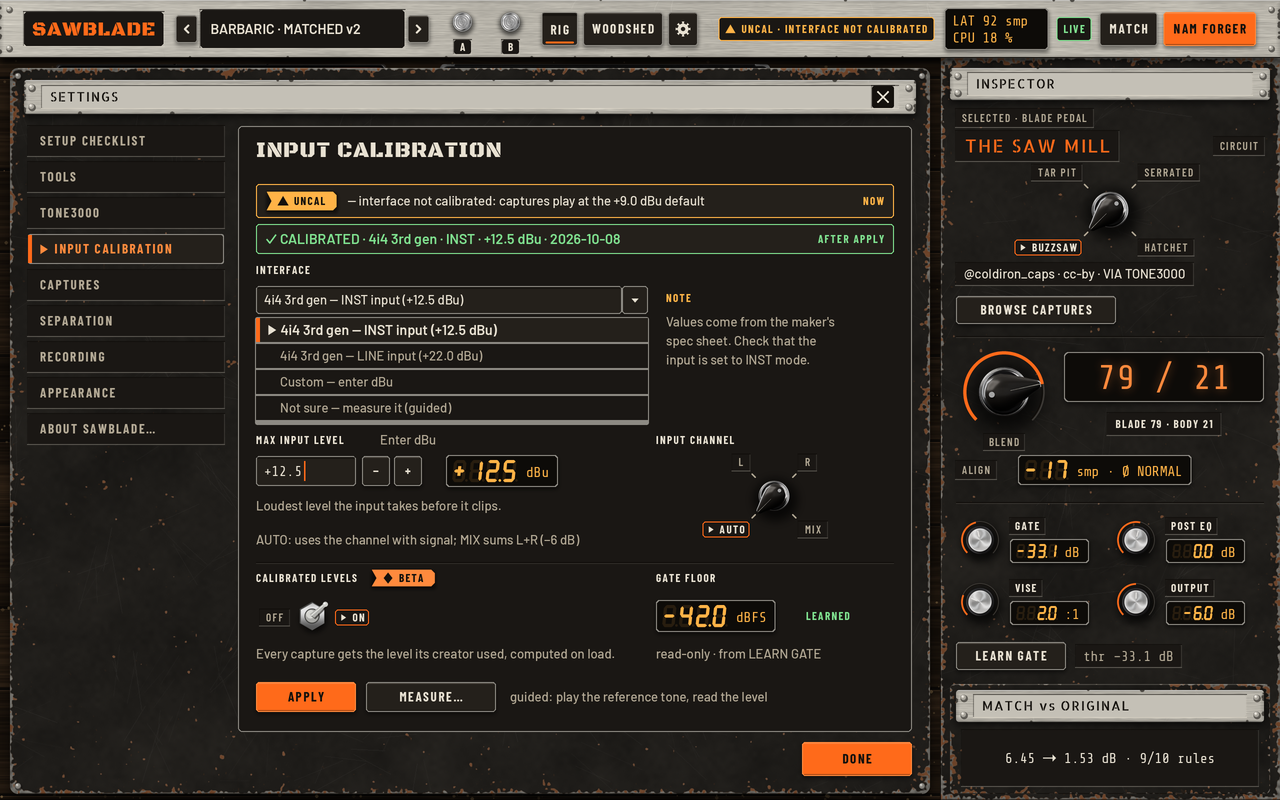
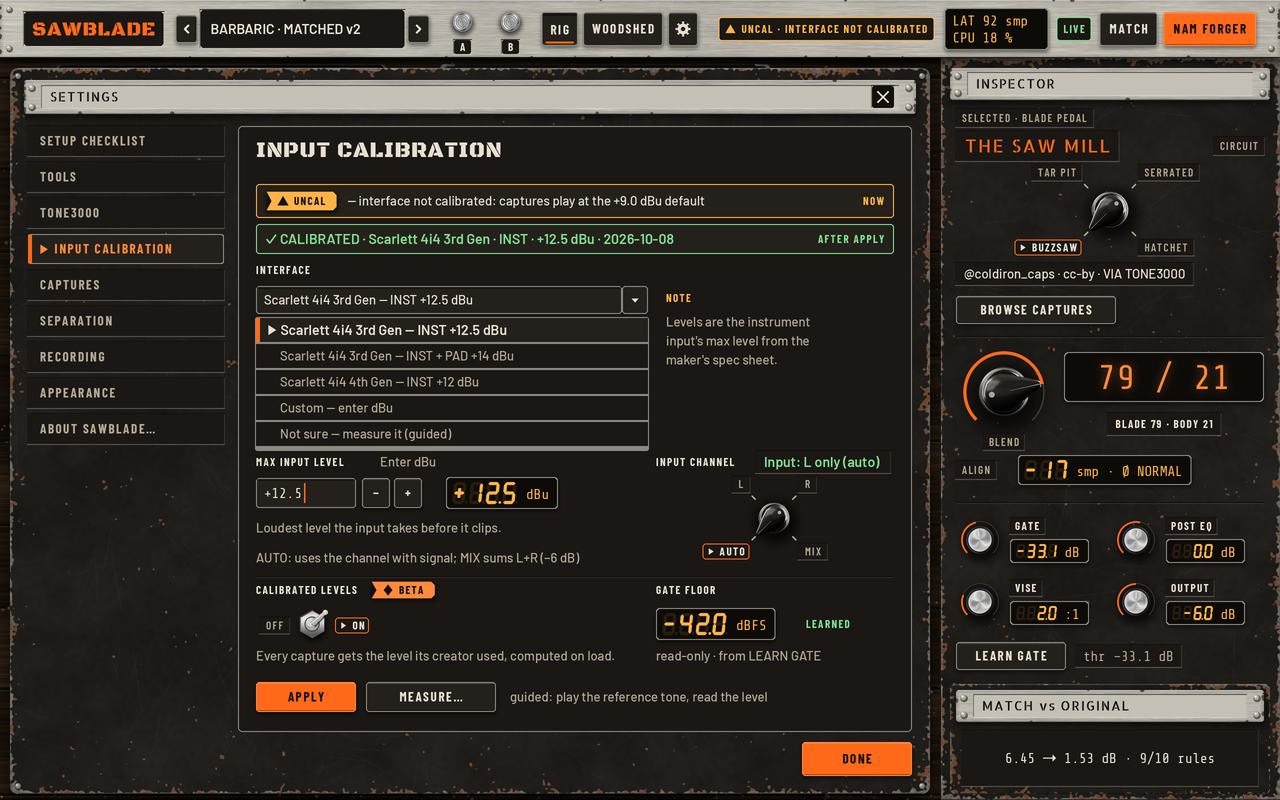
mockups: v0.8 decisions (OUT OF TRUE wording, Scarlett INST presets, input-channel caption)
- OUT OF TRUE banner uses the exact v0.8 sentence (hotter case, ~4.5 dB)
- device presets: Scarlett 4i4 3rd Gen INST / INST + PAD, 4th Gen INST, Custom, guided; no LINE or +22 dBu anywhere
- CALIBRATED strip names the Scarlett 4i4 3rd Gen; NOTE text says instrument-input max level
- INPUT CHANNEL shows the 'Input: L only (auto)' caption
- README rows, open design choices and contrast table updated

Claude-Session: https://claude.ai/code/session_01Xtcva4Boag1J55QcGzGRmV

diff --git a/design/mockups/workshop/screens_panels.py b/design/mockups/workshop/screens_panels.py
@@ -156,20 +156,20 @@ def screen_03_settings_calibration():
     y += 40
     s2 = (bx0, y, bx1, y + 30)
     flat_box(cv, s2, 'well_raised', 'ok', 3)
-    ws.text(cv, (s2[0] + 10, y + 15), '✓ CALIBRATED · 4i4 3rd gen · INST · +12.5 dBu · 2026-10-08', 'body_strong',
+    ws.text(cv, (s2[0] + 10, y + 15), '✓ CALIBRATED · Scarlett 4i4 3rd Gen · INST · +12.5 dBu · 2026-10-08', 'body_strong',
             bg=ws.inset(s2, 3), fg='ok')
     ws.text(cv, (s2[2] - 10, y + 15), 'AFTER APPLY', 'label_b', bg=ws.inset(s2, 3), align='r', fg='ok')
     y += 46
     # INTERFACE dropdown, shown open
     ws.text(cv, (bx0, y), 'INTERFACE', 'label_b', bg=body)
     y += 16
-    ws.dropdown(cv, (bx0, y, bx0 + 392, y + 28), '4i4 3rd gen — INST input (+12.5 dBu)')
+    ws.dropdown(cv, (bx0, y, bx0 + 392, y + 28), 'Scarlett 4i4 3rd Gen — INST +12.5 dBu')
     y += 32
-    opts = ['4i4 3rd gen — INST input (+12.5 dBu)', '4i4 3rd gen — LINE input (+22.0 dBu)', 'Custom — enter dBu',
-            'Not sure — measure it (guided)']
+    opts = ['Scarlett 4i4 3rd Gen — INST +12.5 dBu', 'Scarlett 4i4 3rd Gen — INST + PAD +14 dBu',
+            'Scarlett 4i4 4th Gen — INST +12 dBu', 'Custom — enter dBu', 'Not sure — measure it (guided)']
     list_x1 = bx0 + 392
     top_list = y
-    cv.fill((bx0 - 1, top_list - 1, list_x1 + 1, top_list + 4 * 26 + 3), 'steel_bare', 2)
+    cv.fill((bx0 - 1, top_list - 1, list_x1 + 1, top_list + len(opts) * 26 + 3), 'steel_bare', 2)
     for i, o in enumerate(opts):
         r = (bx0, top_list + i * 26, list_x1, top_list + i * 26 + 24)
         sel = i == 0
@@ -179,16 +179,19 @@ def screen_03_settings_calibration():
             ws.text(cv, (r[0] + 12, (r[1] + r[3]) / 2.0), '▶ ' + o, 'body_strong', bg=ws.inset(r, 3))
         else:
             ws.text(cv, (r[0] + 24, (r[1] + r[3]) / 2.0), o, 'body_dim', bg=ws.inset(r, 3))
-    note = (list_x1 + 18, top_list - 32, bx1, top_list + 4 * 26 + 2)
+    note = (list_x1 + 18, top_list - 32, bx1, top_list + len(opts) * 26 + 2)
     ws.text(cv, (note[0], note[1] + 12), 'NOTE', 'label_b', bg=body, fg='warn')
-    lines(cv, note[0], note[1] + 36, ['Values come from the maker\'s', 'spec sheet. Check that the', 'input is set to INST mode.'],
+    lines(cv, note[0], note[1] + 36, ['Levels are the instrument', 'input\'s max level from the', 'maker\'s spec sheet.'],
           body, 'body_dim', 19)
-    y = top_list + 4 * 26 + 18
+    y = top_list + len(opts) * 26 + 14
     # MAX INPUT LEVEL (left) and INPUT CHANNEL (right)
     colr = bx0 + 400
     ws.text(cv, (bx0, y), 'MAX INPUT LEVEL', 'label_b', bg=body)
     ws.text(cv, (bx0 + 124, y), 'Enter dBu', 'body_dim', bg=body)
     ws.text(cv, (colr, y), 'INPUT CHANNEL', 'label_b', bg=body)
+    cs = (colr + 100, y - 11, bx1 - 4, y + 11)
+    ws.well(cv, cs, 'well', 2)
+    ws.text(cv, (cs[0] + 8, y), 'Input: L only (auto)', 'body_strong', bg=cs, fg='ok')
     y += 16
     ws.text_field(cv, (bx0, y, bx0 + 100, y + 30), '+12.5', caret=True)
     ws.button(cv, (bx0 + 106, y, bx0 + 134, y + 30), '−', 'secondary')
@@ -196,20 +199,20 @@ def screen_03_settings_calibration():
     ws.lcd(cv, (bx0 + 190, y + 15), '+12.5', 'dBu', digits=4, h=22)
     ws.text(cv, (bx0, y + 50), 'Loudest level the input takes before it clips.', 'body_dim', bg=body)
     ws.rotary_selector(cv, colr + 118, y + 40, 52, ['AUTO', 'L', 'R', 'MIX'], 0, 'blade')
-    y += 84
+    y += 80
     ws.text(cv, (bx0, y), 'AUTO: uses the channel with signal; MIX sums L+R (−6 dB)', 'body_dim', bg=body)
-    y += 22
+    y += 18
     hsep(cv, bx0, bx1, y)
-    y += 16
+    y += 14
     # CALIBRATED LEVELS toggle + BETA, GATE FLOOR
     ws.text(cv, (bx0, y), 'CALIBRATED LEVELS', 'label_b', bg=body)
     ws.badge(cv, (bx0 + ws.text_width('CALIBRATED LEVELS', 'label_b') + 14, y), 'BETA', h=18)
     ws.text(cv, (colr, y), 'GATE FLOOR', 'label_b', bg=body)
-    y += 38
+    y += 34
     ws.toggle(cv, bx0 + 56, y, 1, ['OFF', 'ON'], size=30, key='tg_cal')
     ws.lcd(cv, (colr, y), '-42.0', 'dBFS', digits=4, h=22)
     ws.text(cv, (colr + 150, y), 'LEARNED', 'label_b', bg=body, fg='ok')
-    y += 38
+    y += 32
     ws.text(cv, (bx0, y), 'Every capture gets the level its creator used, computed on load.', 'body_dim', bg=body)
     ws.text(cv, (colr, y), 'read-only · from LEARN GATE', 'body_dim', bg=body)
     # buttons
@@ -387,8 +390,8 @@ def screen_09_notices():
     flat_box(cv, tw, 'well', 'steel_bare', 3)
     ws.text(cv, (tw[0] + 12, 126), 'OUT OF TRUE', 'body_strong', bg=tw, fg='alert')
     ws.text(cv, (tw[0] + 12 + ws.text_width('OUT OF TRUE', 'body_strong') + 6, 126),
-            '· your input is running 4.5 dB hotter than when you calibrated', 'body', bg=tw)
-    ws.text(cv, (tw[0] + 12, 150), '(interface gain moved?)', 'body_dim', bg=tw)
+            '· Your playing level is running ~4.5 dB hotter than', 'body', bg=tw)
+    ws.text(cv, (tw[0] + 12, 150), 'when this interface was set up — did the interface gain change?', 'body', bg=tw)
     ws.button(cv, (708, 108, 934, 136), 'RE-CALIBRATE', 'primary')
     ws.button(cv, (708, 142, 934, 170), 'IGNORE THIS SESSION', 'secondary')
     # chip form

diff --git a/design/mockups/workshop/README.md b/design/mockups/workshop/README.md
@@ -15,7 +15,7 @@ All 1280 x 800 design px, rendered by `render_all.py` into `png/`. Screens 02-09
 | `png/00_style_sheet.png` | style sheet | palette with ratios, materials (worn steel, brushed alu, bench wood, sawdust, riveted plate), type, control kit, LCD / nixie, badges, frames |
 | `png/01_main_rig.png` | main rig | BLADE / BODY heads, cab, pedalboard (THE SAW MILL selected, TS-STYLE), inspector with circuit selector, BLEND nixie, GATE / POST EQ / VISE / OUTPUT with LCDs |
 | `png/02_top_bar.png` | top bar | five states (default, A/B slot names, UNCAL chip, OUT OF TRUE chip, WOODSHED open + MATCH 42 %) and two 2x zooms |
-| `png/03_settings_calibration.png` | Settings: INPUT CALIBRATION | UNCAL / CALIBRATED status, 4i4 3rd gen device presets (INST / LINE / Custom / guided), Enter dBu field + LCD, input channel AUTO / L / R / MIX, CALIBRATED LEVELS toggle (BETA), learned gate floor |
+| `png/03_settings_calibration.png` | Settings: INPUT CALIBRATION | UNCAL / CALIBRATED status, Scarlett 4i4 device presets (3rd Gen INST, INST + PAD, 4th Gen INST, Custom, guided; only INST levels are stored), "Input: L only (auto)" caption, Enter dBu field + LCD, input channel AUTO / L / R / MIX, CALIBRATED LEVELS toggle (BETA), learned gate floor |
 | `png/04_preset_browser.png` | preset browser | banks, categories, list (one PARSE ERROR row), info panel with captures + licences + NON-COMMERCIAL, the LEGACY LEVELS hint with USE CALIBRATED LEVELS / KEEP AS SAVED, resolve status |
 | `png/05_match.png` | MATCH | reference song, your DI (takes), auto-refine, REFINED + PREVIEW results, spectrum (solid vs dashed), 9/10 rules |
 | `png/06_nam_forger.png` | NAM FORGER | mode cards, studio-blend card, size, validation DI, VISE drop/keep, output folder, what goes into the model, credits, TRAIN / RESUME, export notes, training strip |
@@ -53,7 +53,7 @@ Lowest ratio of any text in any screen: **5.27:1** (`bone_mute` on `well_raised`
 
 | style | fg | bg | ratio | AA needs | px sizes | uses | screens |
 |---|---|---|---|---|---|---|---|
-| body | bone | well | 13.71:1 ok | 4.5 | 13 | 54 | 00 01 03 04 05 06 07 08 09 |
+| body | bone | well | 13.71:1 ok | 4.5 | 13 | 55 | 00 01 03 04 05 06 07 08 09 |
 | body | bone | well_raised | 12.43:1 ok | 4.5 | 13 | 4 | 00 03 06 |
 | body | bone_mute | well | 5.81:1 ok | 4.5 | 13 | 1 | 04 |
 | body | bone_mute | well_raised | 5.27:1 ok | 4.5 | 13 | 2 | 00 04 |
@@ -66,7 +66,7 @@ Lowest ratio of any text in any screen: **5.27:1** (`bone_mute` on `well_raised`
 | body_strong | bone | well | 13.71:1 ok | 4.5 | 13,14 | 26 | 00 01 02 03 04 05 06 07 08 09 |
 | body_strong | bone | well_raised | 12.43:1 ok | 4.5 | 14 | 3 | 03 04 05 |
 | body_strong | bone_dim | well | 7.67:1 ok | 4.5 | 14 | 1 | 06 |
-| body_strong | ok | well | 11.02:1 ok | 4.5 | 14 | 6 | 06 08 |
+| body_strong | ok | well | 11.02:1 ok | 4.5 | 14 | 7 | 03 06 08 |
 | body_strong | ok | well_raised | 9.99:1 ok | 4.5 | 14 | 1 | 03 |
 | body_strong | warn | well | 10.02:1 ok | 4.5 | 14 | 5 | 06 07 09 |
 | brand | blade | well | 6.23:1 ok | 3.0 | 20,22 | 14 | 00 01 02 03 04 05 06 07 08 09 |
@@ -121,7 +121,7 @@ Lowest ratio of any text in any screen: **5.27:1** (`bone_mute` on `well_raised`
 | section_mixed | ink | alu_well | 10.36:1 ok | 4.5 | 13 | 4 | 01 03 07 08 |
 | title | bone | well | 13.71:1 ok | 4.5 | 18,22 | 2 | 03 04 |
 
-1043 strings measured on 10 screens: all pass WCAG 2.x AA
+1045 strings measured on 10 screens: all pass WCAG 2.x AA
 
 ## Open design choices
 
@@ -132,6 +132,6 @@ Lowest ratio of any text in any screen: **5.27:1** (`bone_mute` on `well_raised`
 - Backdrop text: the dimmed rig behind an overlay is scenery and is left out of the contrast log; every interactive or
   informative string on the overlay itself is measured.
 - Wording invented for the mockups (notes, error reasons, toast text, file names, creator handles, capture titles) is
-  placeholder and fictional. The 4i4 3rd gen levels (+12.5 dBu INST, +22 dBu LINE) are spec-sheet figures to confirm in v0.8.
-- OUT OF TRUE is drawn as "input running N dB hotter than when you calibrated"; the drift definition belongs to v0.8.
+  placeholder and fictional. The Scarlett 4i4 levels (3rd Gen +12.5 dBu INST, +14 dBu INST + PAD; 4th Gen +12 dBu INST) are the instrument-input spec-sheet figures, to confirm in v0.8; device names are a nominative compatibility reference, no logos.
+- OUT OF TRUE is drawn as "Your playing level is running ~4.5 dB hotter than when this interface was set up — did the interface gain change?" (the real UI says hotter or quieter); the drift definition belongs to v0.8.
 
